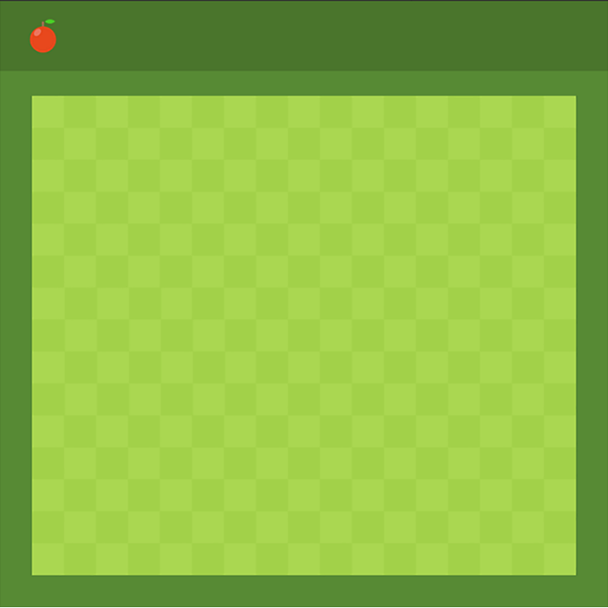
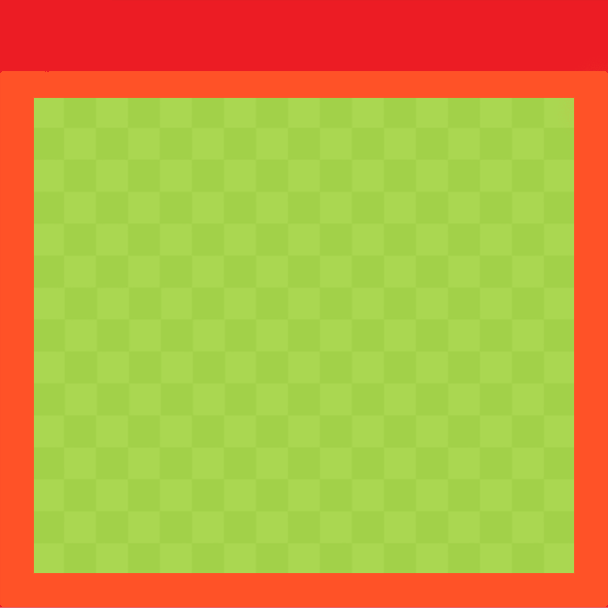
змыйка

diff --git a/Змійка/бета/snake.html b/Змійка/бета/snake.html
@@ -7,10 +7,7 @@
   <link rel="stylesheet" href="styleZmi.css">
 </head>
 <body>
-	<div class='zagolovok' align="center">Snake</div>
-	<br/>
-	<br/>
- 	<div id="window"><canvas id="game" width="608" height="608"></canvas></div>
- 	<script src="script.js"></script>
+  <div id="window"><canvas id="game" width="608" height="608"></canvas></div>
+  <script src="script.js"></script>
 </body>
 </html>

diff --git a/Змійка/styleZmi.css b/Змійка/styleZmi.css
@@ -1,3 +1,20 @@
-.window{
-	margin-left: 200px;
+*{
+	box-sizing: border-box;
+	margin:0;
+}
+#window{
+	margin-left: 30%;
+}
+.zagolovok{
+	width:100%;
+	background-color:rgba(0,0,0,0.7);
+	color:white;
+	font-size:50;
+	font-family:Century Gothic;
+}
+.zagolovok:hover{
+	color:red;
+}
+body{
+	background-image:url("Images/bg.jpg");
 }

diff --git a/Змійка/бета/script.js b/Змійка/бета/script.js
@@ -50,7 +50,7 @@ function drawGame() {
   ctx.drawImage(foodImg, food.x, food.y);
 
   for(let i = 0; i < snake.length; i++) {
-    ctx.fillStyle = i == 0 ? "#009900" : "lime";
+    ctx.fillStyle = i == 0 ? "green" : "lime";
     ctx.fillRect(snake[i].x, snake[i].y, box, box);
   }
 

diff --git a/Змійка/бета/styleZmi.css b/Змійка/бета/styleZmi.css
@@ -1,0 +1,3 @@
+.window{
+	margin-left: 200px;
+}
